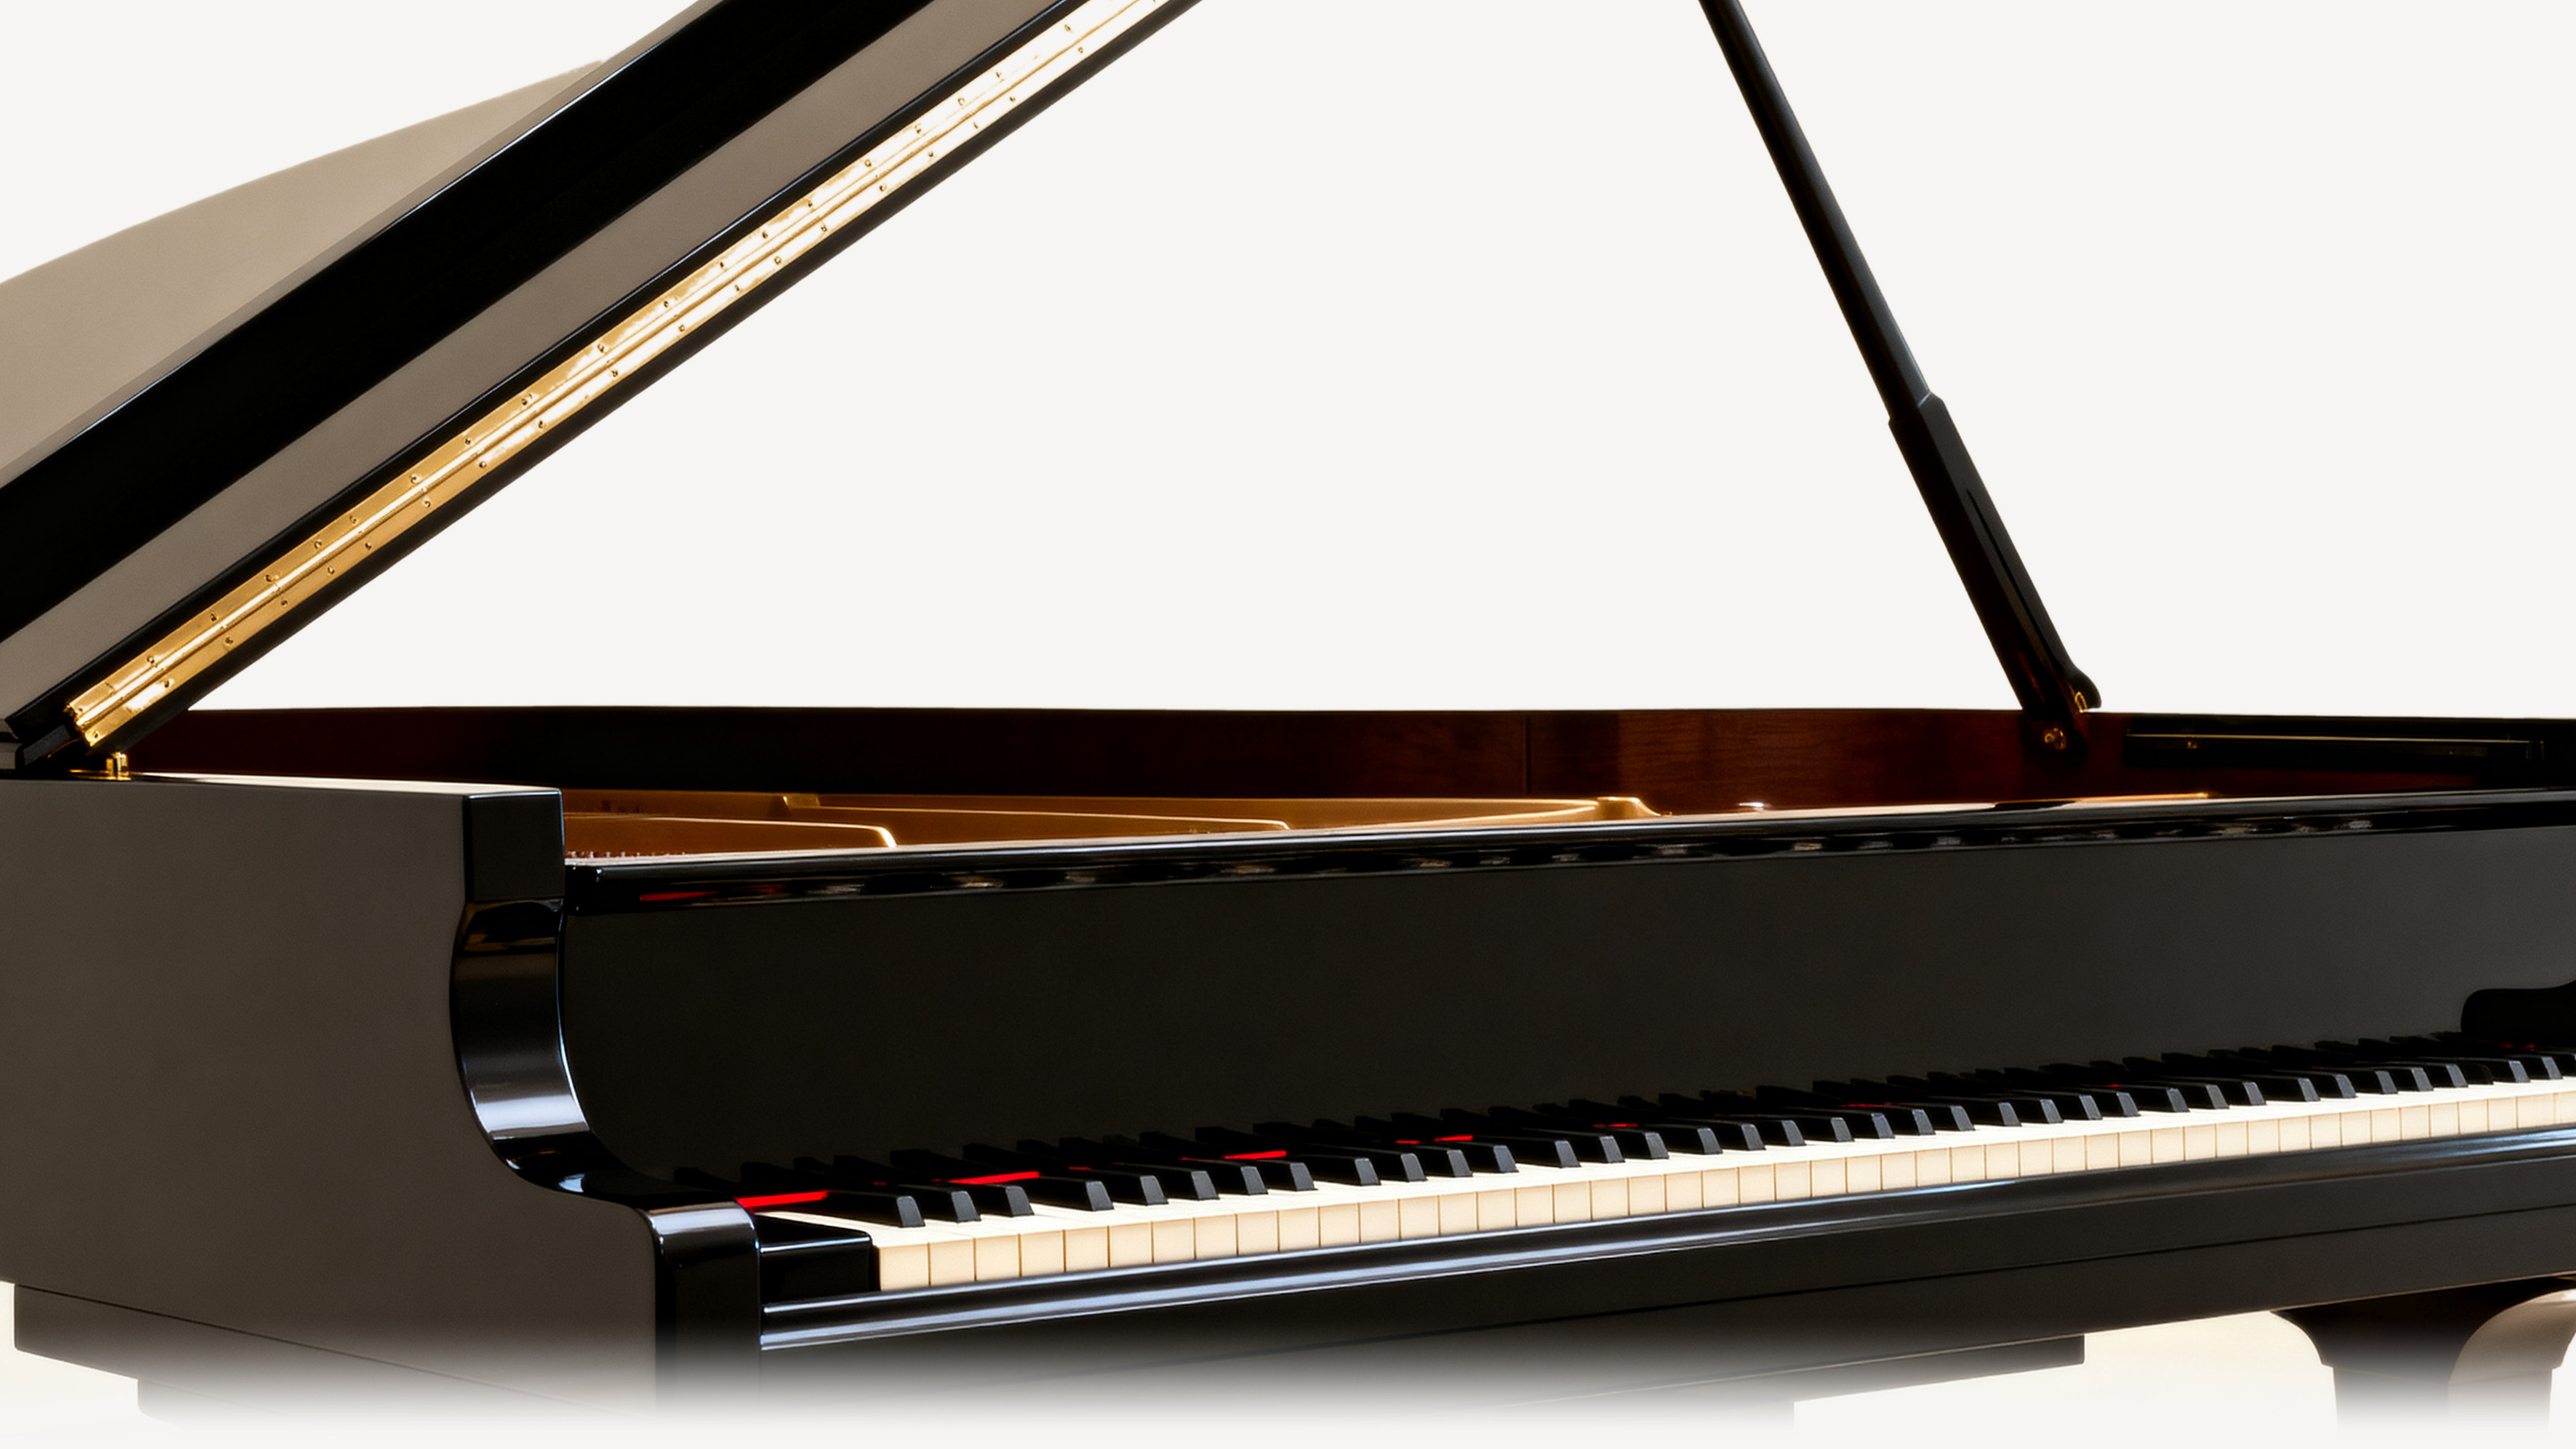
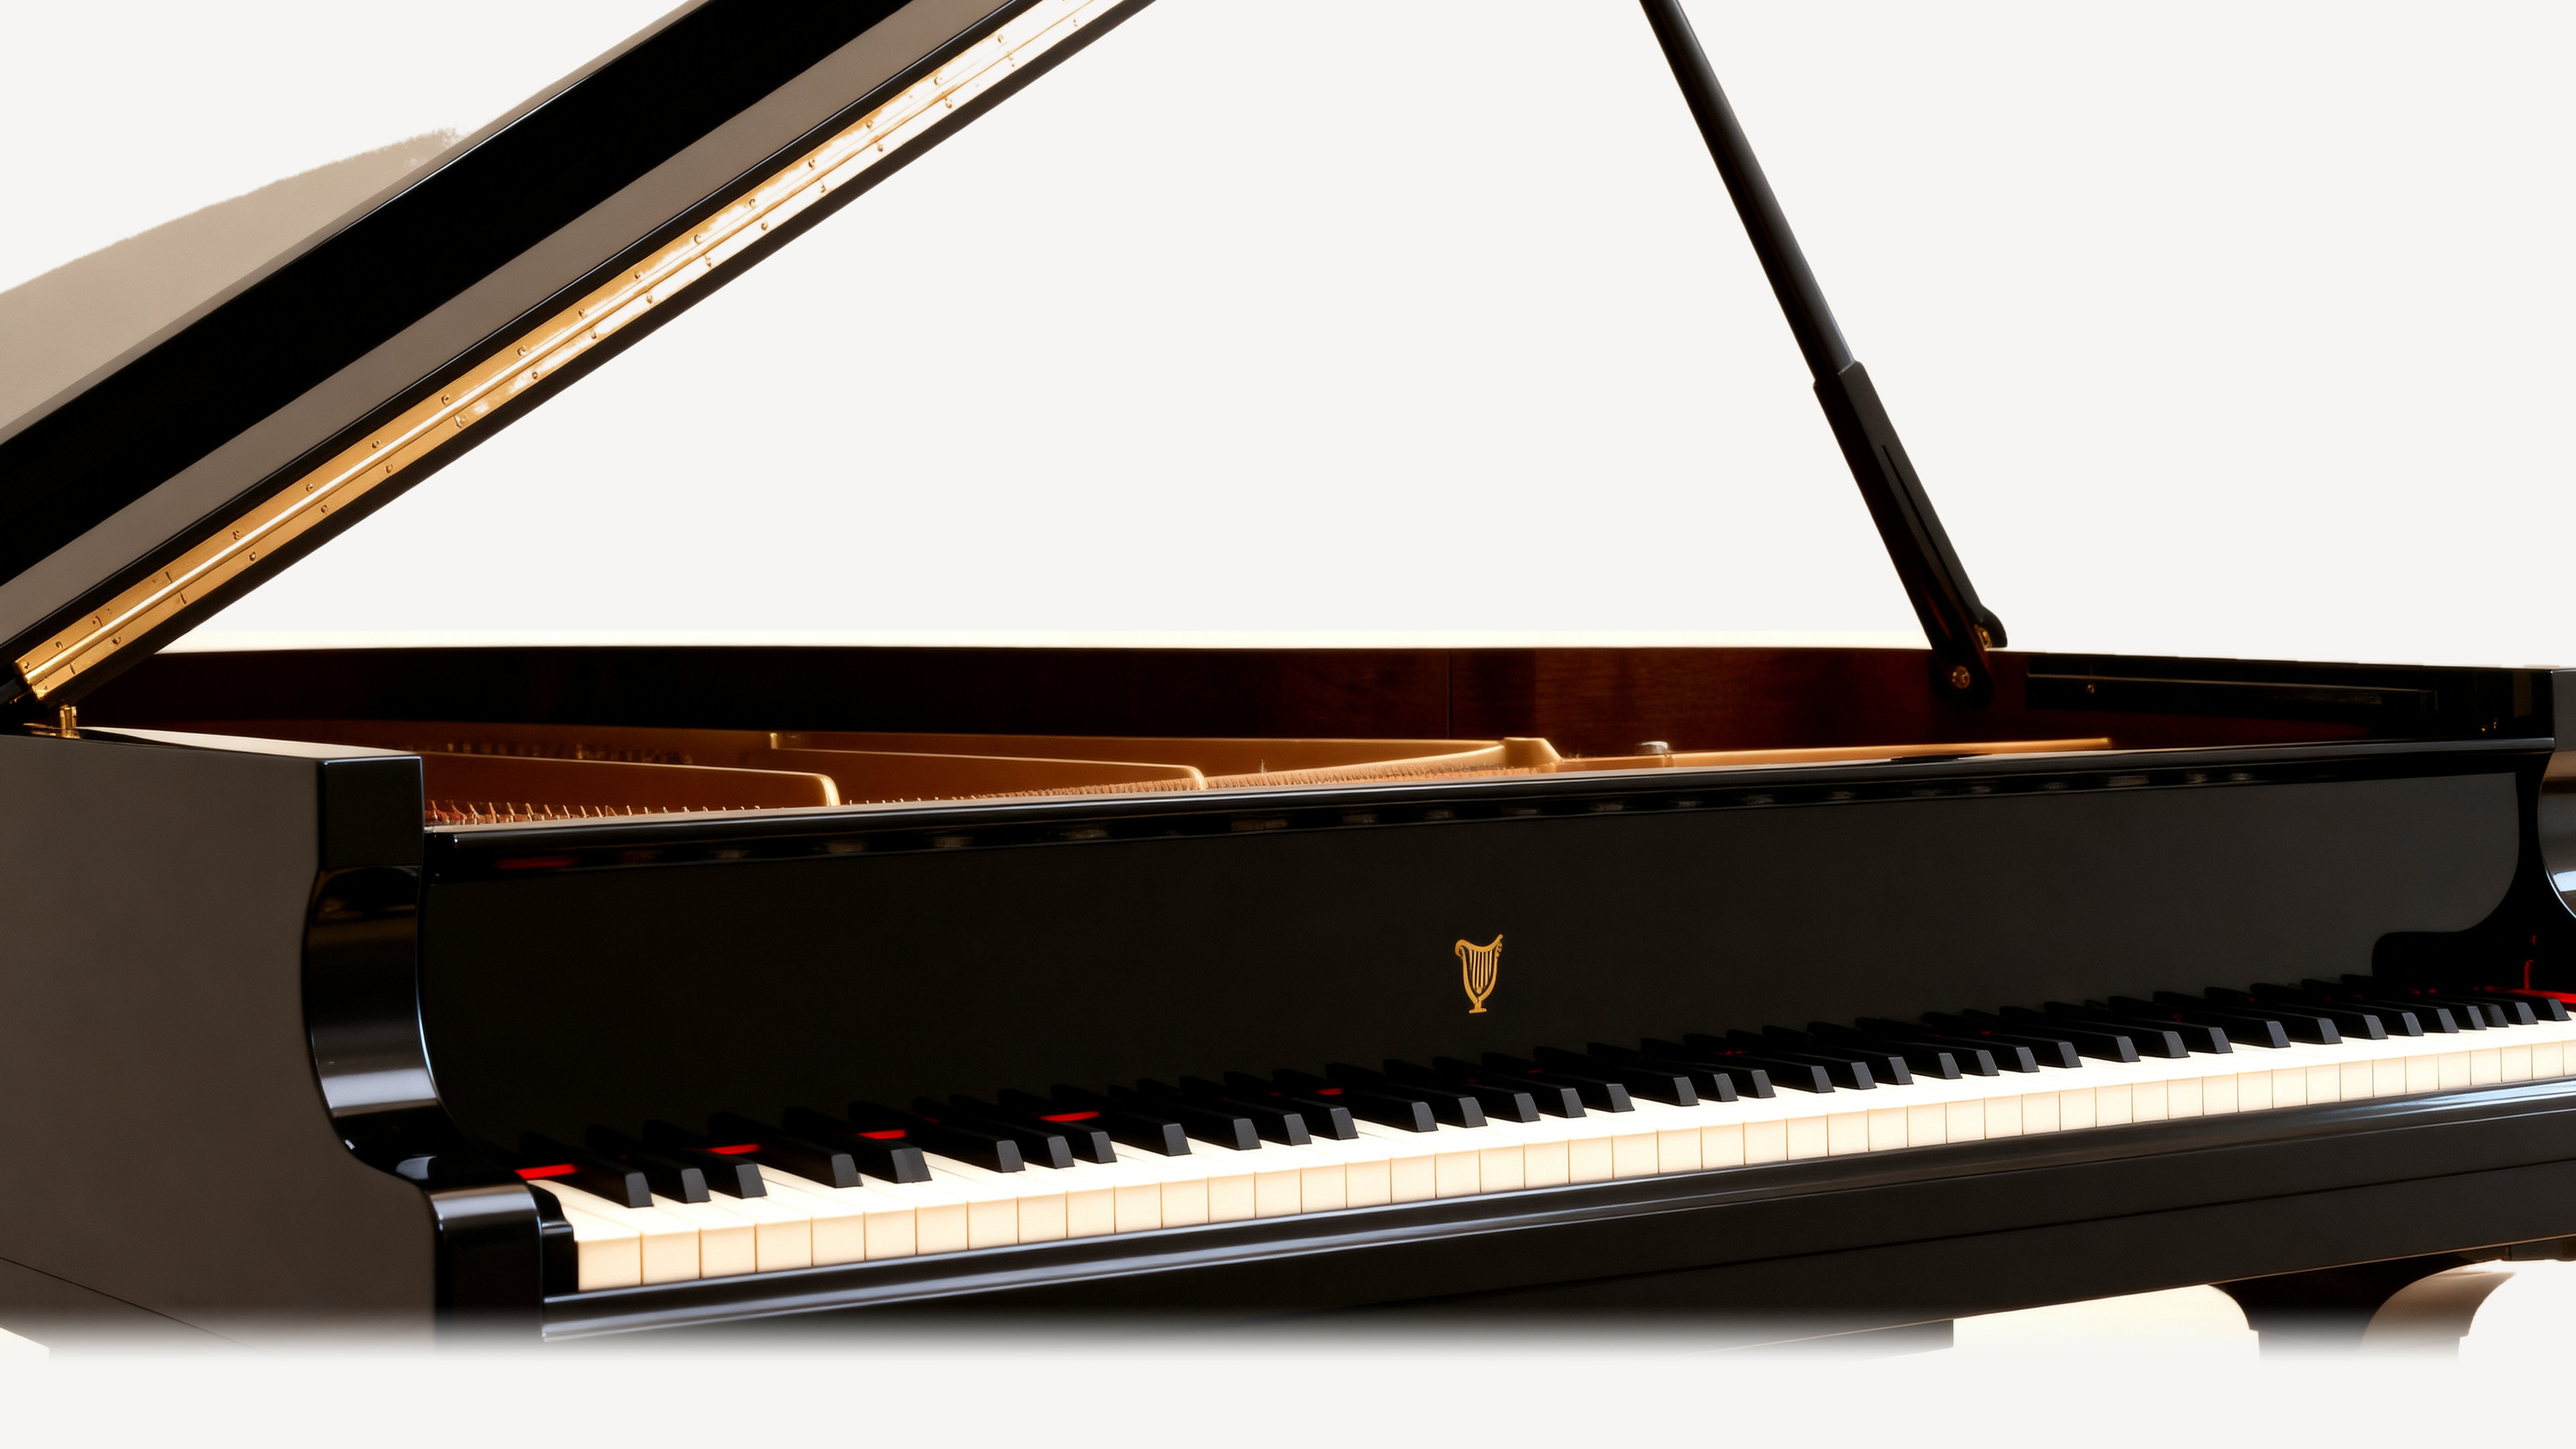
Hero: new reference-guided plate with an anatomically correct keyboard
Generated fresh with seedream-v4-edit, passing the previous plate in as a real
image reference rather than a text description, so the perspective, lid angle,
prop, case proportions and triangular void carry over while the keyboard is
re-rendered. The keys are now properly formed: uniform-width naturals in one
straight row, sharps narrower, shorter and set back, with genuine two-and-three
grouping through the bass. The felt reads as natural glints rather than a
painted stripe.

The plate goes in exactly as generated. Nothing redraws, extends, masks or
recolours the instrument; the only post steps are the backdrop snap to #f6f5f3,
the placement, and the bottom dissolve.

Placement was re-solved for the new geometry. The case rim sits higher relative
to the keyboard than it did before, so the plate scale, horizontal offset and
the type's anchor were fitted together under three constraints: the headline
clears both the nav and the rim, the lid and prop miss every nav item, and the
dissolve starts below the keys and finishes above the scroll cue.

Measured on the delivered asset:
  - every nav item and every hero text element sits on pure #f6f5f3 at
    1440x900 and 1920x1080 (19.3:1 against the black nav links)
  - naturals still peak at 255, so the dissolve never touches the keys
  - dissolve is smooth to 3.5/255 per row and lands exactly on the backdrop
  - backdrop corners are exactly 246,245,243
[…]

diff --git a/index.html b/index.html
@@ -163,7 +163,7 @@
       position: absolute;
       left: 0;
       right: 0;
-      bottom: 54.4%;
+      bottom: 57.8%;
       transform: translateX(2vh);
       z-index: 1;
       display: flex;

diff --git a/scripts/build_hero.py b/scripts/build_hero.py
@@ -24,16 +24,16 @@ SRC = "images/backgorund-images/hero-piano-raw.jpg"
 DST = "images/backgorund-images/hero-piano.jpg"
 BONE = np.array([0xF6, 0xF5, 0xF3], dtype=np.float64)   # == the piano-video section
 
-RIM_Y = 1700                       # top of the case; above it, only lid and backdrop
-KB_LOW = 2711                      # the keyboard's lowest point on the plate
+RIM_Y = 1450                       # top of the case; above it, only lid and backdrop
+KB_LOW = 2706                      # the keyboard's lowest point on the plate
 
 # Design frame is 16:9; built at 2x and delivered at 3840x2160.
 SS = 2
 DW, DH = 1600 * SS, 900 * SS
 KB_BOTTOM = 800 * SS               # where the keyboard's lowest point lands
-PIANO_TOP = -150 * SS              # design y of the plate's top row
-PIANO_DX = -33 * SS                # slide so the lid clears the nav's left links
-FADE_FROM, FADE_TO = 815 * SS, 892 * SS   # starts below the keys, never over them
+PIANO_TOP = -80 * SS               # design y of the plate's top row; the lid bleeds off
+PIANO_DX = -60 * SS                # slide so the lid clears the nav's left links
+FADE_FROM, FADE_TO = 808 * SS, 848 * SS   # below the keys, above the scroll cue
 
 
 # NOTE: every generation run so far -- nineteen, across two models -- was asked
